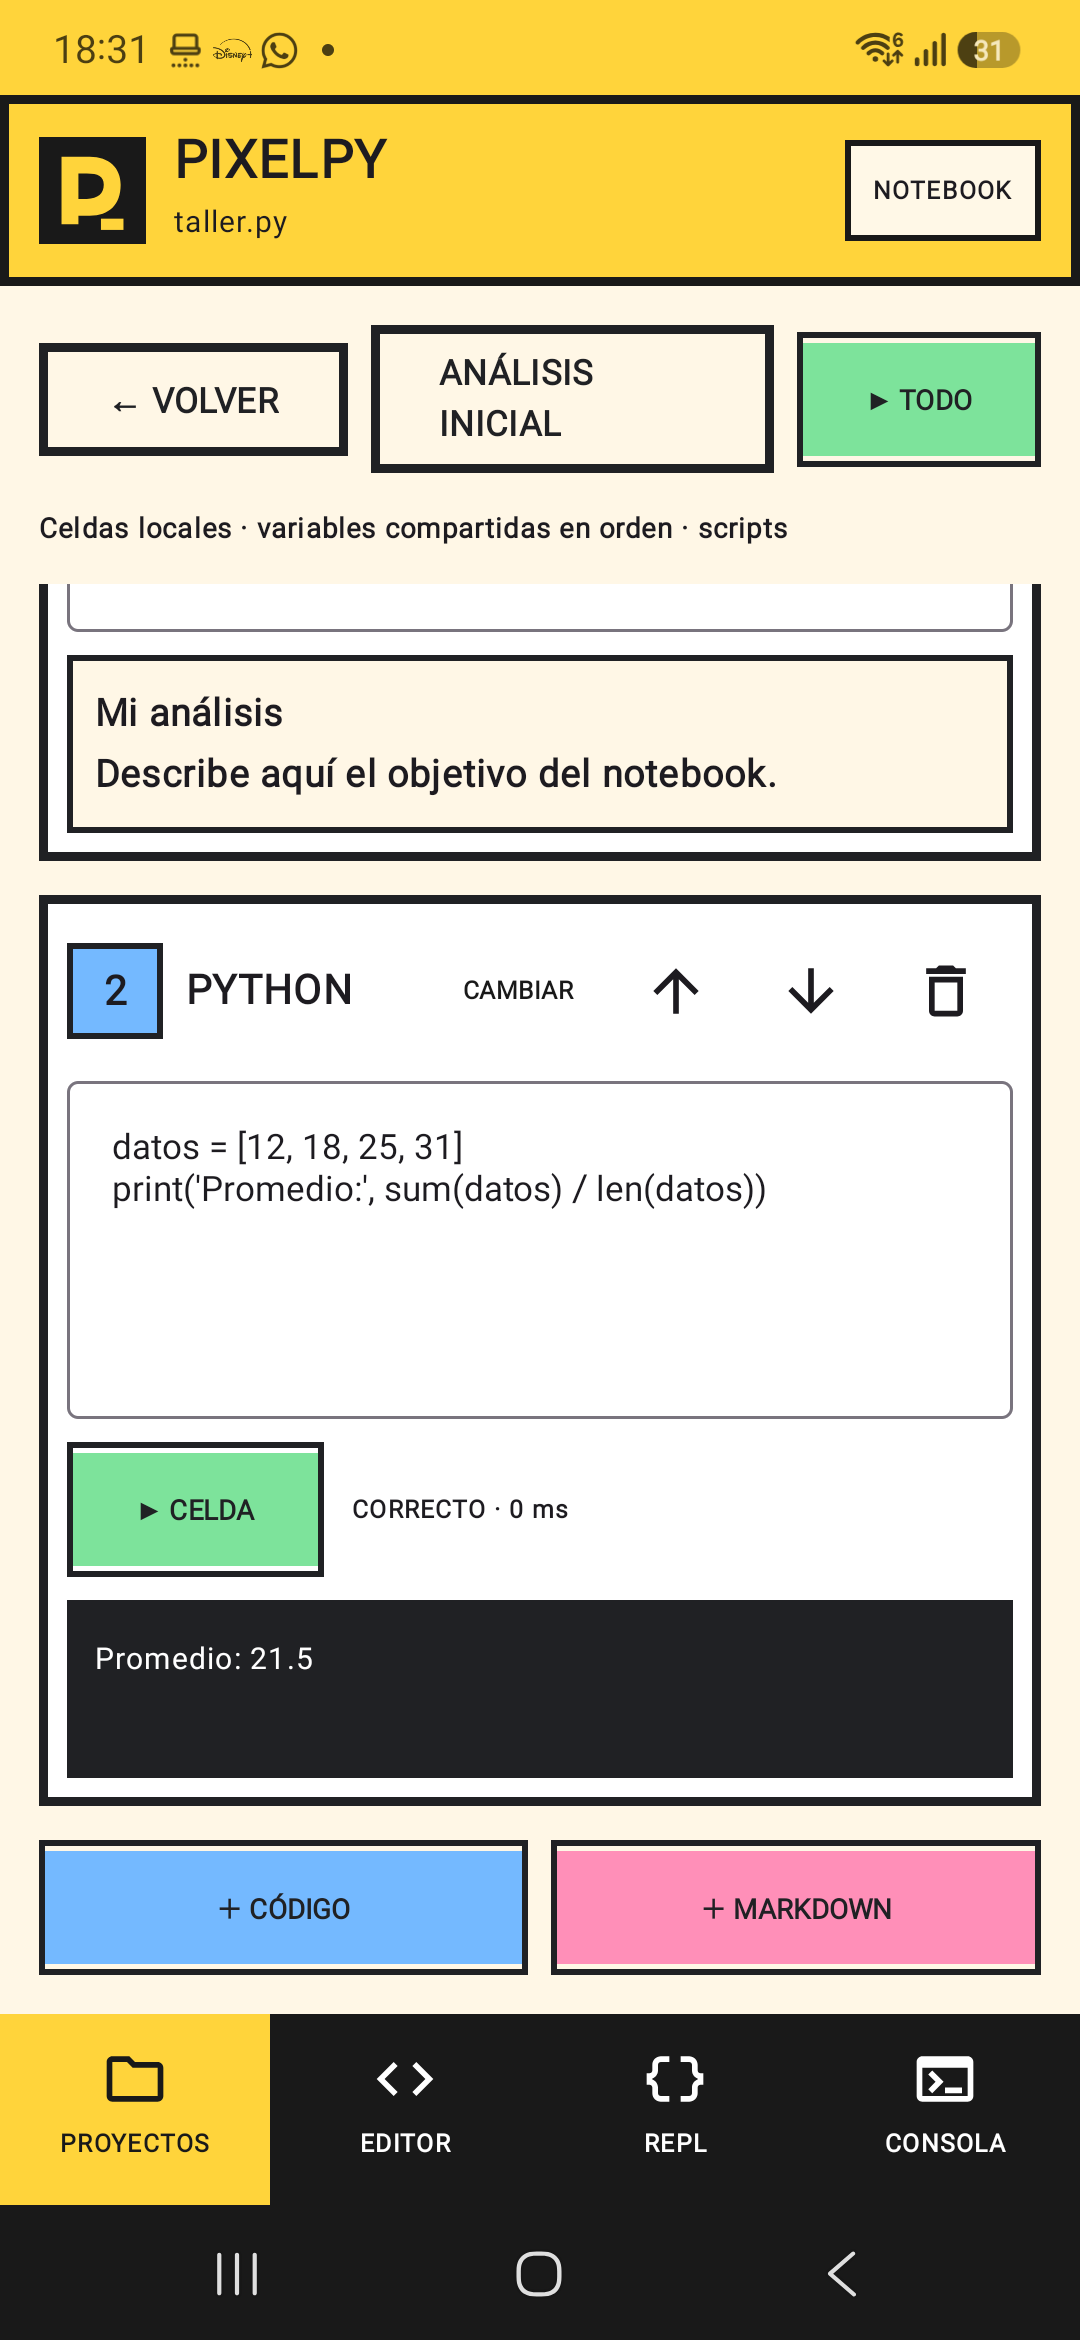
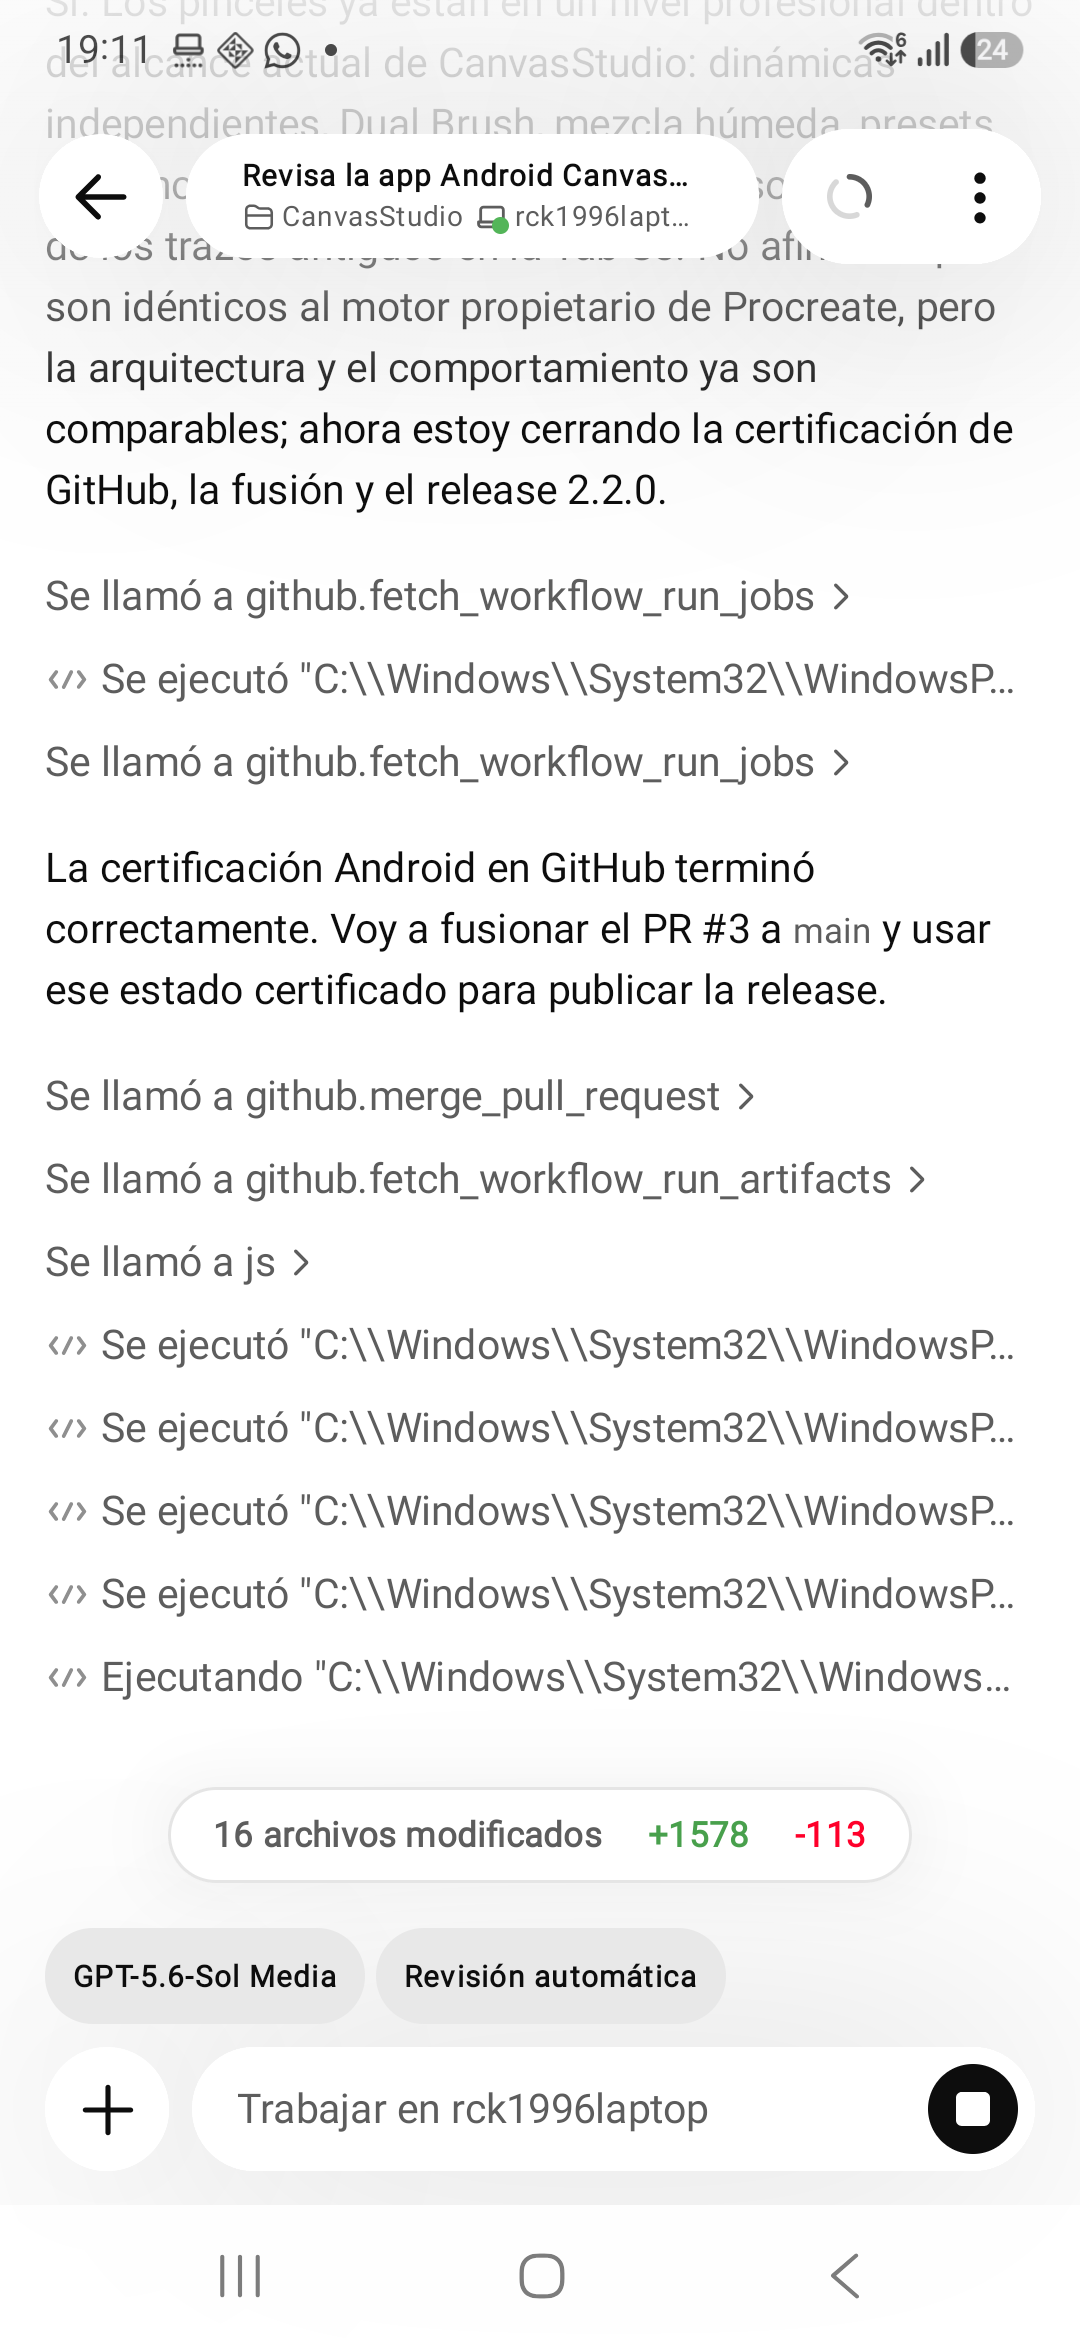
docs: document local notebook workflow

diff --git a/docs/notebook.md b/docs/notebook.md
@@ -1,0 +1,71 @@
+# Notebook local de PixelPy
+
+Notebook permite combinar explicación y análisis Python dentro de un proyecto, sin servidores ni conexión obligatoria. Cada proyecto mantiene sus propios notebooks y PixelPy guarda los cambios automáticamente en su almacenamiento privado.
+
+![Notebook local con Markdown y una celda Python ejecutada](screenshots/notebook-mvp.png)
+
+## Flujo básico
+
+1. Abre **Proyectos** y pulsa **NOTEBOOK**.
+2. Elige un notebook existente o crea uno desde el selector superior.
+3. Añade una celda de **CÓDIGO** o **MARKDOWN**.
+4. Usa **CELDA** para ejecutar hasta esa celda o **TODO** para reconstruir el análisis completo.
+5. Consulta debajo de cada celda Python su salida, estado y duración.
+
+Las celdas pueden subirse, bajarse, eliminarse o cambiarse entre Python y Markdown. El primer notebook incluye un ejemplo pequeño listo para ejecutar.
+
+## Estado compartido y ejecución reproducible
+
+Las celdas Python se evalúan desde arriba hasta la celda elegida dentro de un espacio de variables nuevo. Por eso una variable creada en una celda anterior puede utilizarse después:
+
+```python
+# Celda 1
+ventas = [12, 18, 25, 31]
+```
+
+```python
+# Celda 2
+print("Promedio:", sum(ventas) / len(ventas))
+```
+
+Al volver a ejecutar una celda, PixelPy reconstruye primero las celdas Python anteriores. Esto evita depender de un estado oculto diferente del código visible. **TODO** conserva una salida independiente para cada celda y se detiene al encontrar el primer error.
+
+Notebook utiliza el mismo coordinador de Python que Editor, DEBUG, REPL y Automatizaciones. Nunca se ejecutan dos scripts Python simultáneamente.
+
+## Markdown
+
+Las celdas Markdown tienen dos modos:
+
+- **VISTA:** muestra el documento renderizado.
+- **EDITAR:** permite modificar el texto original.
+
+La vista admite:
+
+- títulos `#` a `######`;
+- párrafos;
+- listas con viñetas y numeradas;
+- citas con `>`;
+- bloques delimitados por tres acentos graves;
+- negrita `**texto**`;
+- cursiva `*texto*`;
+- código en línea con acentos graves.
+
+Cambiar entre Vista y Editar no altera el Markdown guardado.
+
+## Archivos y resultados
+
+El código se ejecuta en la carpeta del proyecto activo. Los archivos creados o modificados aparecen después en **Recursos**, desde donde pueden previsualizarse, organizarse o compartirse.
+
+Notebook no copia resultados a la zona publicada de las automatizaciones. Esa copia estable sigue reservada para automatizaciones y widgets.
+
+## Límites actuales del MVP
+
+- `input()` no abre diálogos dentro de Notebook y produce un error claro en la celda que lo solicita.
+- Una ejecución completa tiene un límite máximo de 120 segundos.
+- Todavía no se exporta al formato Jupyter `.ipynb`.
+- Los gráficos y archivos se abren mediante el visor de resultados existente; aún no se incrustan como salida rica dentro de la celda.
+- Notebook es local: no incluye colaboración, sincronización ni ejecución en servidores.
+
+## Persistencia y privacidad
+
+PixelPy guarda el documento de forma atómica dentro del proyecto privado. El notebook incluye sus celdas, Markdown, salida, estado y duración. No se envía contenido a Internet salvo que el propio código Python realice una solicitud de red.

diff --git a/README.md b/README.md
@@ -51,6 +51,8 @@ Editor y entorno de ejecución de Python para Android, diseñado para trabajar d
   <img src="docs/screenshots/notebook-mvp.png" alt="Notebook local de PixelPy ejecutándose en Android" width="46%" />
 </p>
 
+Consulta el flujo, Markdown compatible y límites del MVP en [Notebook local](docs/notebook.md).
+
 ## Resultados publicados
 
 El botón **VER RESULTADO** del widget, **ABRIR RESULTADO** en automatizaciones y **VER RESULTADO** en la consola llevan al mismo visor:
